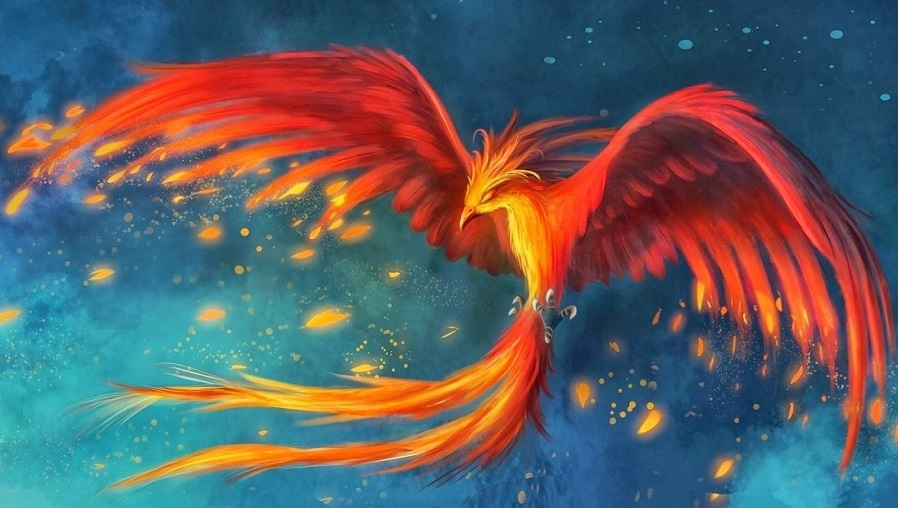
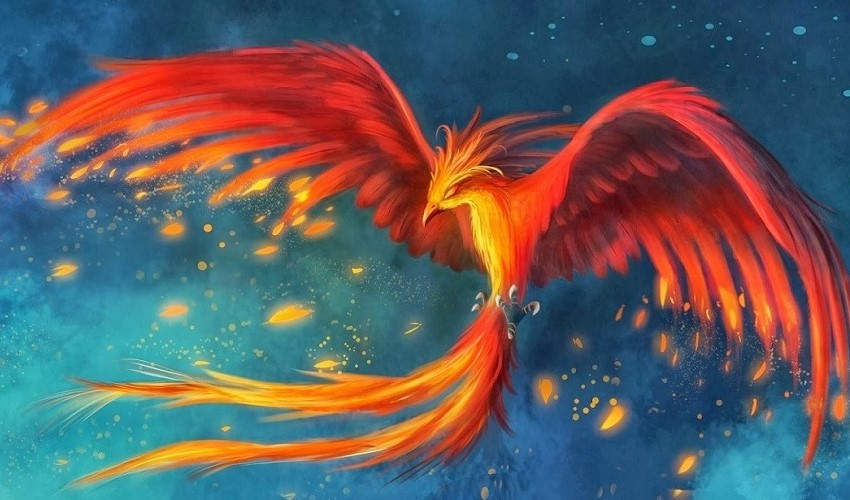
Changement taille image

diff --git a/Contact_us.html b/Contact_us.html
@@ -1,0 +1,304 @@
+<!doctype html>
+<html lang="en">
+  <head>
+    <!-- Required meta tags -->
+    <meta charset="utf-8">
+    <meta name="viewport" content="width=device-width, initial-scale=1, shrink-to-fit=no">
+    <!-- Bootstrap CSS -->
+    <link rel="stylesheet" href="https://stackpath.bootstrapcdn.com/bootstrap/4.4.1/css/bootstrap.min.css" integrity="sha384-Vkoo8x4CGsO3+Hhxv8T/Q5PaXtkKtu6ug5TOeNV6gBiFeWPGFN9MuhOf23Q9Ifjh" crossorigin="anonymous">
+
+    <title>Hello, world!</title>
+  </head>
+  <body>
+      <header>
+          <h1>
+              Write us
+          </h1>
+      </header>
+    <!-- Partie contact us -->
+    <main>
+        <form>            
+            <div class="form-group">
+                <label for="validationServer01">Your full name<sup>*</sup></label>
+                <input type="text" class="form-control is-valid" id="validationServer01" placeholder="First name SURNAME" required>
+            </div>            
+            <div class="form-group">
+                <label for="exampleFormControlInput1">Your email<sup>*</sup></label>
+                <input type="email" class="form-control is-valid" id="validationServer01" placeholder="name@example.com" required>
+            </div>
+            <div class="form-group">
+                <label for="validationServer01">Phone number</label>
+                <input type="tel" class="form-control is-valid" id="validationServer01" size="20" minlength="10" maxlength="14" name="Phone_number" placeholder="0123456789">
+            </div>
+            <div class="form-group">
+                <label for="inputAddress">Address</label>
+                <input type="text" class="form-control" id="inputAddress" placeholder="1 Main Street, City">
+            </div>
+            <div class="form-group">
+                <label for="ISO-3166-1:Alpha-2Codes">Country</label>
+                <select requiered  name="contry" id="ISO-3166-1:Alpha-2Codes" class="form-control">
+                    <option value="AX">Åland Islands</option>
+                    <option value="AL">Albania</option>
+                    <option value="DZ">Algeria</option>
+                    <option value="AS">American Samoa</option>
+                    <option value="AD">Andorra</option>
+                    <option value="AO">Angola</option>
+                    <option value="AI">Anguilla</option>
+                    <option value="AQ">Antarctica</option>
+                    <option value="AG">Antigua and Barbuda</option>
+                    <option value="AR">Argentina</option>
+                    <option value="AM">Armenia</option>
+                    <option value="AW">Aruba</option>
+                    <option value="AU">Australia</option>
+                    <option value="AT">Austria</option>
+                    <option value="AZ">Azerbaijan</option>
+                    <option value="BS">Bahamas</option>
+                    <option value="BH">Bahrain</option>
+                    <option value="BD">Bangladesh</option>
+                    <option value="BB">Barbados</option>
+                    <option value="BY">Belarus</option>
+                    <option value="BE">Belgium</option>
+                    <option value="BZ">Belize</option>
+                    <option value="BJ">Benin</option>
+                    <option value="BM">Bermuda</option>
+                    <option value="BT">Bhutan</option>
+                    <option value="BO">Bolivia, Plurinational State of</option>
+                    <option value="BQ">Bonaire, Sint Eustatius and Saba</option>
+                    <option value="BA">Bosnia and Herzegovina</option>
+                    <option value="BW">Botswana</option>
+                    <option value="BV">Bouvet Island</option>
+                    <option value="BR">Brazil</option>
+                    <option value="IO">British Indian Ocean Territory</option>
+                    <option value="BN">Brunei Darussalam</option>
+                    <option value="BG">Bulgaria</option>
+                    <option value="BF">Burkina Faso</option>
+                    <option value="BI">Burundi</option>
+                    <option value="KH">Cambodia</option>
+                    <option value="CM">Cameroon</option>
+                    <option value="CA">Canada</option>
+                    <option value="CV">Cape Verde</option>
+                    <option value="KY">Cayman Islands</option>
+                    <option value="CF">Central African Republic</option>
+                    <option value="TD">Chad</option>
+                    <option value="CL">Chile</option>
+                    <option value="CN">China</option>
+                    <option value="CX">Christmas Island</option>
+                    <option value="CC">Cocos (Keeling) Islands</option>
+                    <option value="CO">Colombia</option>
+                    <option value="KM">Comoros</option>
+                    <option value="CG">Congo</option>
+                    <option value="CD">Congo, the Democratic Republic of the</option>
+                    <option value="CK">Cook Islands</option>
+                    <option value="CR">Costa Rica</option>
+                    <option value="CI">Côte d'Ivoire</option>
+                    <option value="HR">Croatia</option>
+                    <option value="CU">Cuba</option>
+                    <option value="CW">Curaçao</option>
+                    <option value="CY">Cyprus</option>
+                    <option value="CZ">Czech Republic</option>
+                    <option value="DK">Denmark</option>
+                    <option value="DJ">Djibouti</option>
+                    <option value="DM">Dominica</option>
+                    <option value="DO">Dominican Republic</option>
+                    <option value="EC">Ecuador</option>
+                    <option value="EG">Egypt</option>
+                    <option value="SV">El Salvador</option>
+                    <option value="GQ">Equatorial Guinea</option>
+                    <option value="ER">Eritrea</option>
+                    <option value="EE">Estonia</option>
+                    <option value="ET">Ethiopia</option>
+                    <option value="FK">Falkland Islands (Malvinas)</option>
+                    <option value="FO">Faroe Islands</option>
+                    <option value="FJ">Fiji</option>
+                    <option value="FI">Finland</option>
+                    <option value="FR">France</option>
+                    <option value="GF">French Guiana</option>
+                    <option value="PF">French Polynesia</option>
+                    <option value="TF">French Southern Territories</option>
+                    <option value="GA">Gabon</option>
+                    <option value="GM">Gambia</option>
+                    <option value="GE">Georgia</option>
+                    <option value="DE">Germany</option>
+                    <option value="GH">Ghana</option>
+                    <option value="GI">Gibraltar</option>
+                    <option value="GR">Greece</option>
+                    <option value="GL">Greenland</option>
+                    <option value="GD">Grenada</option>
+                    <option value="GP">Guadeloupe</option>
+                    <option value="GU">Guam</option>
+                    <option value="GT">Guatemala</option>
+                    <option value="GG">Guernsey</option>
+                    <option value="GN">Guinea</option>
+                    <option value="GW">Guinea-Bissau</option>
+                    <option value="GY">Guyana</option>
+                    <option value="HT">Haiti</option>
+                    <option value="HM">Heard Island and McDonald Islands</option>
+                    <option value="VA">Holy See (Vatican City State)</option>
+                    <option value="HN">Honduras</option>
+                    <option value="HK">Hong Kong</option>
+                    <option value="HU">Hungary</option>
+                    <option value="IS">Iceland</option>
+                    <option value="IN">India</option>
+                    <option value="ID">Indonesia</option>
+                    <option value="IR">Iran, Islamic Republic of</option>
+                    <option value="IQ">Iraq</option>
+                    <option value="IE">Ireland</option>
+                    <option value="IM">Isle of Man</option>
+                    <option value="IL">Israel</option>
+                    <option value="IT">Italy</option>
+                    <option value="JM">Jamaica</option>
+                    <option value="JP">Japan</option>
+                    <option value="JE">Jersey</option>
+                    <option value="JO">Jordan</option>
+                    <option value="KZ">Kazakhstan</option>
+                    <option value="KE">Kenya</option>
+                    <option value="KI">Kiribati</option>
+                    <option value="KP">Korea, Democratic People's Republic of</option>
+                    <option value="KR">Korea, Republic of</option>
+                    <option value="KW">Kuwait</option>
+                    <option value="KG">Kyrgyzstan</option>
+                    <option value="LA">Lao People's Democratic Republic</option>
+                    <option value="LV">Latvia</option>
+                    <option value="LB">Lebanon</option>
+                    <option value="LS">Lesotho</option>
+                    <option value="LR">Liberia</option>
+                    <option value="LY">Libya</option>
+                    <option value="LI">Liechtenstein</option>
+                    <option value="LT">Lithuania</option>
+                    <option value="LU">Luxembourg</option>
+                    <option value="MO">Macao</option>
+                    <option value="MK">Macedonia, the former Yugoslav Republic of</option>
+                    <option value="MG">Madagascar</option>
+                    <option value="MW">Malawi</option>
+                    <option value="MY">Malaysia</option>
+                    <option value="MV">Maldives</option>
+                    <option value="ML">Mali</option>
+                    <option value="MT">Malta</option>
+                    <option value="MH">Marshall Islands</option>
+                    <option value="MQ">Martinique</option>
+                    <option value="MR">Mauritania</option>
+                    <option value="MU">Mauritius</option>
+                    <option value="YT">Mayotte</option>
+                    <option value="MX">Mexico</option>
+                    <option value="FM">Micronesia, Federated States of</option>
+                    <option value="MD">Moldova, Republic of</option>
+                    <option value="MC">Monaco</option>
+                    <option value="MN">Mongolia</option>
+                    <option value="ME">Montenegro</option>
+                    <option value="MS">Montserrat</option>
+                    <option value="MA">Morocco</option>
+                    <option value="MZ">Mozambique</option>
+                    <option value="MM">Myanmar</option>
+                    <option value="NA">Namibia</option>
+                    <option value="NR">Nauru</option>
+                    <option value="NP">Nepal</option>
+                    <option value="NL">Netherlands</option>
+                    <option value="NC">New Caledonia</option>
+                    <option value="NZ">New Zealand</option>
+                    <option value="NI">Nicaragua</option>
+                    <option value="NE">Niger</option>
+                    <option value="NG">Nigeria</option>
+                    <option value="NU">Niue</option>
+                    <option value="NF">Norfolk Island</option>
+                    <option value="MP">Northern Mariana Islands</option>
+                    <option value="NO">Norway</option>
+                    <option value="OM">Oman</option>
+                    <option value="PK">Pakistan</option>
+                    <option value="PW">Palau</option>
+                    <option value="PS">Palestinian Territory, Occupied</option>
+                    <option value="PA">Panama</option>
+                    <option value="PG">Papua New Guinea</option>
+                    <option value="PY">Paraguay</option>
+                    <option value="PE">Peru</option>
+                    <option value="PH">Philippines</option>
+                    <option value="PN">Pitcairn</option>
+                    <option value="PL">Poland</option>
+                    <option value="PT">Portugal</option>
+                    <option value="PR">Puerto Rico</option>
+                    <option value="QA">Qatar</option>
+                    <option value="RE">Réunion</option>
+                    <option value="RO">Romania</option>
+                    <option value="RU">Russian Federation</option>
+                    <option value="RW">Rwanda</option>
+                    <option value="BL">Saint Barthélemy</option>
+                    <option value="SH">Saint Helena, Ascension and Tristan da Cunha</option>
+                    <option value="KN">Saint Kitts and Nevis</option>
+                    <option value="LC">Saint Lucia</option>
+                    <option value="MF">Saint Martin (French part)</option>
+                    <option value="PM">Saint Pierre and Miquelon</option>
+                    <option value="VC">Saint Vincent and the Grenadines</option>
+                    <option value="WS">Samoa</option>
+                    <option value="SM">San Marino</option>
+                    <option value="ST">Sao Tome and Principe</option>
+                    <option value="SA">Saudi Arabia</option>
+                    <option value="SN">Senegal</option>
+                    <option value="RS">Serbia</option>
+                    <option value="SC">Seychelles</option>
+                    <option value="SL">Sierra Leone</option>
+                    <option value="SG">Singapore</option>
+                    <option value="SX">Sint Maarten (Dutch part)</option>
+                    <option value="SK">Slovakia</option>
+                    <option value="SI">Slovenia</option>
+                    <option value="SB">Solomon Islands</option>
+                    <option value="SO">Somalia</option>
+                    <option value="ZA">South Africa</option>
+                    <option value="GS">South Georgia and the South Sandwich Islands</option>
+                    <option value="SS">South Sudan</option>
+                    <option value="ES">Spain</option>
+                    <option value="LK">Sri Lanka</option>
+                    <option value="SD">Sudan</option>
+                    <option value="SR">Suriname</option>
+                    <option value="SJ">Svalbard and Jan Mayen</option>
+                    <option value="SZ">Swaziland</option>
+                    <option value="SE">Sweden</option>
+                    <option value="CH">Switzerland</option>
+                    <option value="SY">Syrian Arab Republic</option>
+                    <option value="TW">Taiwan, Province of China</option>
+                    <option value="TJ">Tajikistan</option>
+                    <option value="TZ">Tanzania, United Republic of</option>
+                    <option value="TH">Thailand</option>
+                    <option value="TL">Timor-Leste</option>
+                    <option value="TG">Togo</option>
+                    <option value="TK">Tokelau</option>
+                    <option value="TO">Tonga</option>
+                    <option value="TT">Trinidad and Tobago</option>
+                    <option value="TN">Tunisia</option>
+                    <option value="TR">Turkey</option>
+                    <option value="TM">Turkmenistan</option>
+                    <option value="TC">Turks and Caicos Islands</option>
+                    <option value="TV">Tuvalu</option>
+                    <option value="UG">Uganda</option>
+                    <option value="UA">Ukraine</option>
+                    <option value="AE">United Arab Emirates</option>
+                    <option value="GB">United Kingdom</option>
+                    <option value="US">United States</option>
+                    <option value="UM">United States Minor Outlying Islands</option>
+                    <option value="UY">Uruguay</option>
+                    <option value="UZ">Uzbekistan</option>
+                    <option value="VU">Vanuatu</option>
+                    <option value="VE">Venezuela, Bolivarian Republic of</option>
+                    <option value="VN">Viet Nam</option>
+                    <option value="VG">Virgin Islands, British</option>
+                    <option value="VI">Virgin Islands, U.S.</option>
+                    <option value="WF">Wallis and Futuna</option>
+                    <option value="EH">Western Sahara</option>
+                    <option value="YE">Yemen</option>
+                    <option value="ZM">Zambia</option>
+                    <option value="ZW">Zimbabwe</option>
+                </select>
+            </div>
+            <div class="form-group">
+              <label for="exampleFormControlTextarea1">Your oppinion is very important for us<sup>*</sup></label>
+              <textarea class="form-control" id="exampleFormControlTextarea1" name="your_opinion" placeholder="Write briefly your opinion ..."></textarea>
+            </div>
+            <button type="submit" class="btn btn-primary">Submit</button>
+          </form>
+    </main>
+
+    <!-- Optional JavaScript -->
+    <!-- jQuery first, then Popper.js, then Bootstrap JS -->
+    <script src="https://code.jquery.com/jquery-3.4.1.slim.min.js" integrity="sha384-J6qa4849blE2+poT4WnyKhv5vZF5SrPo0iEjwBvKU7imGFAV0wwj1yYfoRSJoZ+n" crossorigin="anonymous"></script>
+    <script src="https://cdn.jsdelivr.net/npm/popper.js@1.16.0/dist/umd/popper.min.js" integrity="sha384-Q6E9RHvbIyZFJoft+2mJbHaEWldlvI9IOYy5n3zV9zzTtmI3UksdQRVvoxMfooAo" crossorigin="anonymous"></script>
+    <script src="https://stackpath.bootstrapcdn.com/bootstrap/4.4.1/js/bootstrap.min.js" integrity="sha384-wfSDF2E50Y2D1uUdj0O3uMBJnjuUD4Ih7YwaYd1iqfktj0Uod8GCExl3Og8ifwB6" crossorigin="anonymous"></script>
+  </body>
+</html>
